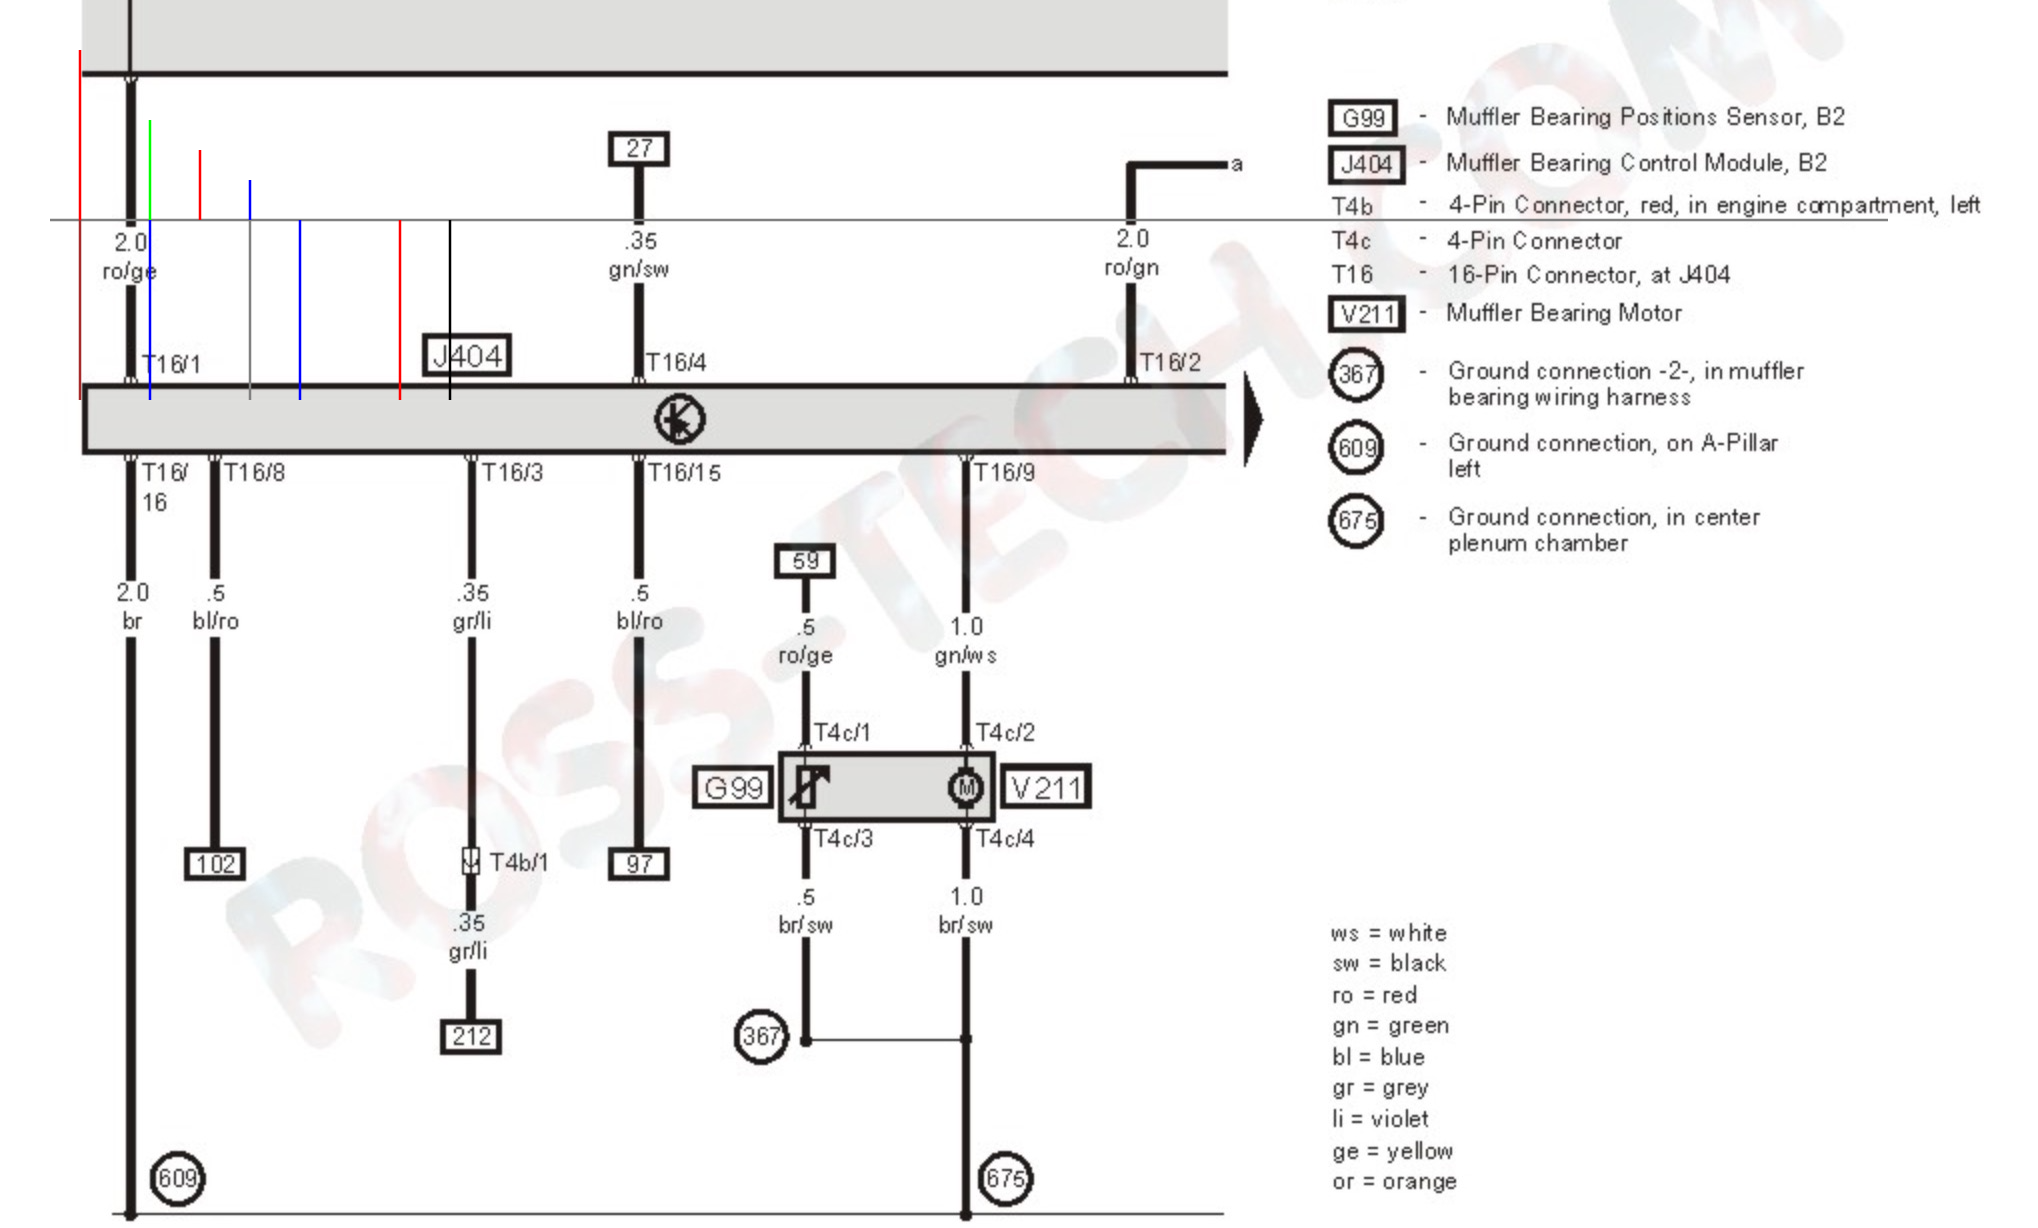
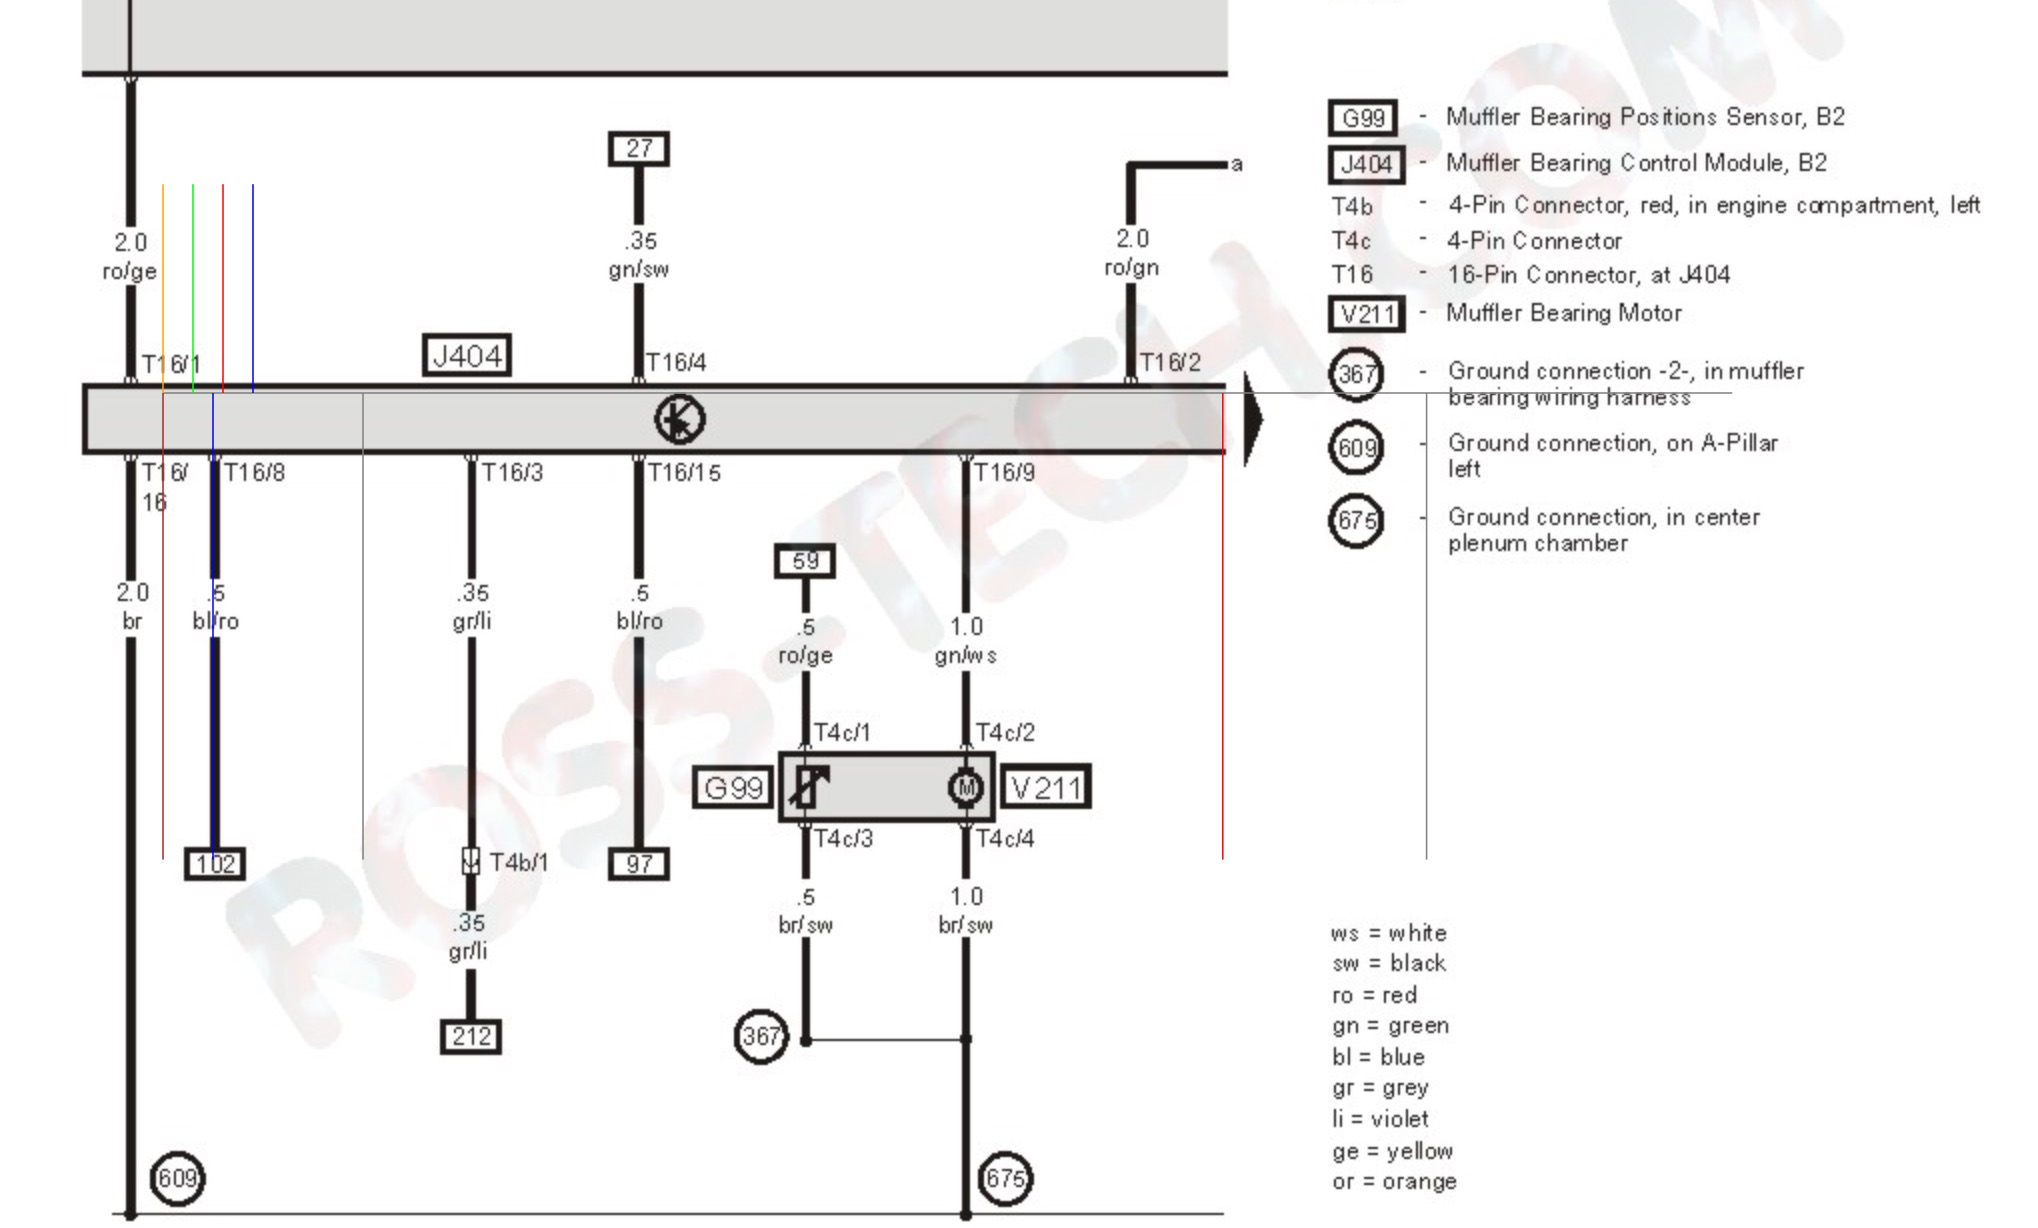
better working copy

Changed region(s): [[0.34, 0.1547, 0.9274, 0.1857], [0.0309, 0.1547, 0.3091, 0.3404]]

diff --git a/index.ts b/index.ts
@@ -16,41 +16,46 @@ async function processWiringDiagram(inputPath: string) {
         const image = sharp(inputPath);
         const metadata = await image.metadata();
 
-        // Create an SVG overlay for the colored lines
+        // Calculate positions based on image dimensions
+        const width = metadata.width || 800;
+        const height = metadata.height || 600;
+        
+        // Calculate key positions relative to image size
+        const mainBarY = Math.round(height * 0.32); // Main horizontal bar position
+        const leftMargin = Math.round(width * 0.08);  // Left margin for vertical wires
+
         const svg = `
-            <svg width="${metadata.width}" height="${metadata.height}">
+            <svg width="${width}" height="${height}">
                 <style>
-                    .wire { stroke-width: 2.5; fill: none; }
+                    .wire { stroke-width: 1.5; fill: none; }
                 </style>
-                <!-- Main horizontal grey bar -->
-                <path class="wire" stroke="rgb(128,128,128)" d="M 50,220 L ${metadata.width! - 150},220" />
+                <!-- Main horizontal grey bar (T16) -->
+                <path class="wire" stroke="rgb(128,128,128)" d="M ${leftMargin},${mainBarY} L ${width * 0.85},${mainBarY}" />
                 
-                <!-- Top vertical wires -->
-                <path class="wire" stroke="rgb(255,0,0)" d="M 80,50 L 80,220" /> <!-- ro/ge -->
-                <path class="wire" stroke="rgb(0,255,0)" d="M 150,120 L 150,220" /> <!-- gn -->
-                <path class="wire" stroke="rgb(255,0,0)" d="M 200,150 L 200,220" /> <!-- ro -->
-                <path class="wire" stroke="rgb(0,0,255)" d="M 250,180 L 250,220" /> <!-- bl -->
+                <!-- First set of vertical wires -->
+                <path class="wire" stroke="rgb(255,165,0)" d="M ${leftMargin},${height * 0.15} L ${leftMargin},${mainBarY}" /> <!-- ro/ge -->
+                <path class="wire" stroke="rgb(165,42,42)" d="M ${leftMargin},${mainBarY} L ${leftMargin},${height * 0.7}" /> <!-- br -->
                 
-                <!-- Bottom vertical wires -->
-                <path class="wire" stroke="rgb(165,42,42)" d="M 80,220 L 80,400" /> <!-- br -->
-                <path class="wire" stroke="rgb(0,0,255)" d="M 150,220 L 150,400" /> <!-- bl/ro -->
-                <path class="wire" stroke="rgb(128,128,128)" d="M 250,220 L 250,400" /> <!-- gr/li -->
-                <path class="wire" stroke="rgb(0,0,255)" d="M 300,220 L 300,400" /> <!-- bl/ro -->
+                <!-- Additional vertical wires with proportional spacing -->
+                <path class="wire" stroke="rgb(0,255,0)" d="M ${leftMargin + 30},${height * 0.15} L ${leftMargin + 30},${mainBarY}" />
+                <path class="wire" stroke="rgb(255,0,0)" d="M ${leftMargin + 60},${height * 0.15} L ${leftMargin + 60},${mainBarY}" />
+                <path class="wire" stroke="rgb(0,0,255)" d="M ${leftMargin + 90},${height * 0.15} L ${leftMargin + 90},${mainBarY}" />
+                
+                <!-- Lower vertical connections -->
+                <path class="wire" stroke="rgb(0,0,255)" d="M ${leftMargin + 50},${mainBarY} L ${leftMargin + 50},${height * 0.7}" />
+                <path class="wire" stroke="rgb(128,128,128)" d="M ${leftMargin + 200},${mainBarY} L ${leftMargin + 200},${height * 0.7}" />
                 
                 <!-- Right side connections -->
-                <path class="wire" stroke="rgb(255,0,0)" d="M 400,220 L 400,400" /> <!-- ro/ge -->
-                <path class="wire" stroke="rgb(0,0,0)" d="M 450,220 L 450,400" /> <!-- gn/ws -->
+                <path class="wire" stroke="rgb(255,0,0)" d="M ${width * 0.6},${mainBarY} L ${width * 0.6},${height * 0.7}" />
+                <path class="wire" stroke="rgb(128,128,128)" d="M ${width * 0.7},${mainBarY} L ${width * 0.7},${height * 0.7}" />
             </svg>`;
 
-        // Composite the SVG over the original image
-        const outputPath = join(__dirname, 'colored-diagram.png');
+        const outputPath = 'colored-diagram.png';
         await image
-            .composite([
-                {
-                    input: Buffer.from(svg),
-                    blend: 'over'
-                }
-            ])
+            .composite([{
+                input: Buffer.from(svg),
+                blend: 'over'
+            }])
             .toFile(outputPath);
 
         console.log(`Colored diagram saved to: ${outputPath}`);
@@ -64,6 +69,6 @@ async function processWiringDiagram(inputPath: string) {
     }
 }
 
-// Run the processor with your image
-const imagePath = join(__dirname, 'exampleSchematic.png');
+// Run the processor
+const imagePath = './exampleSchematic.png';
 processWiringDiagram(imagePath);
